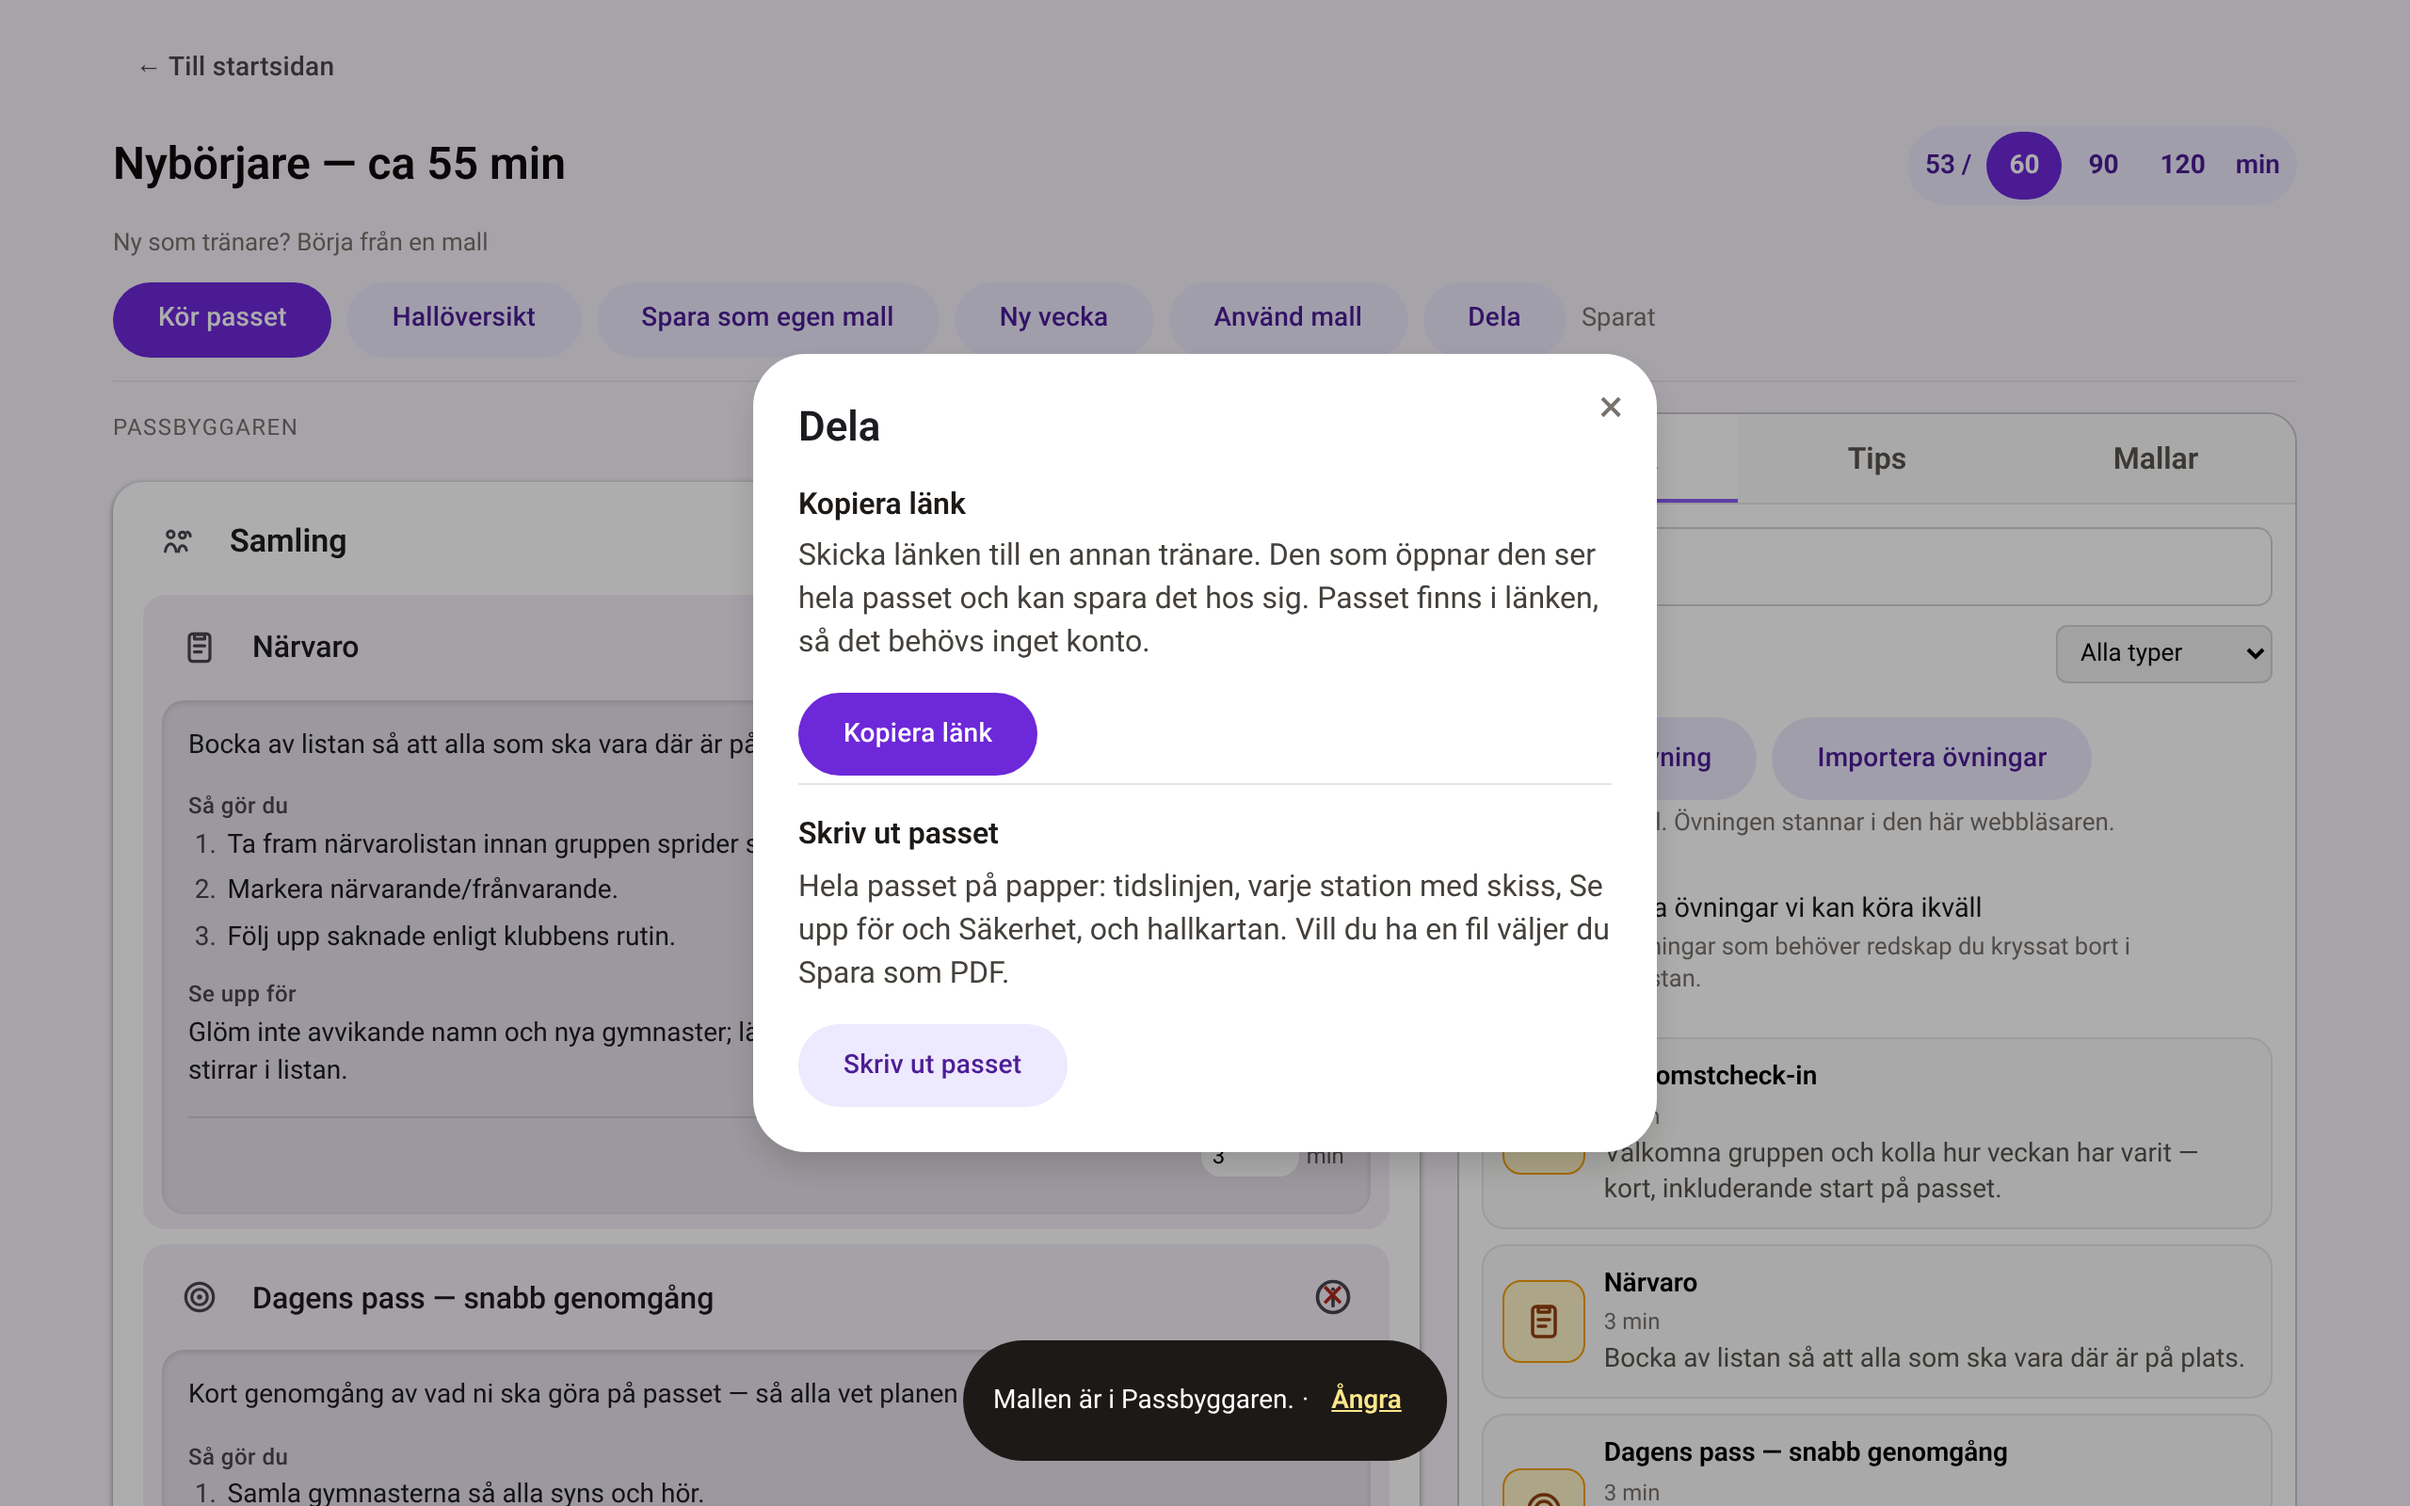
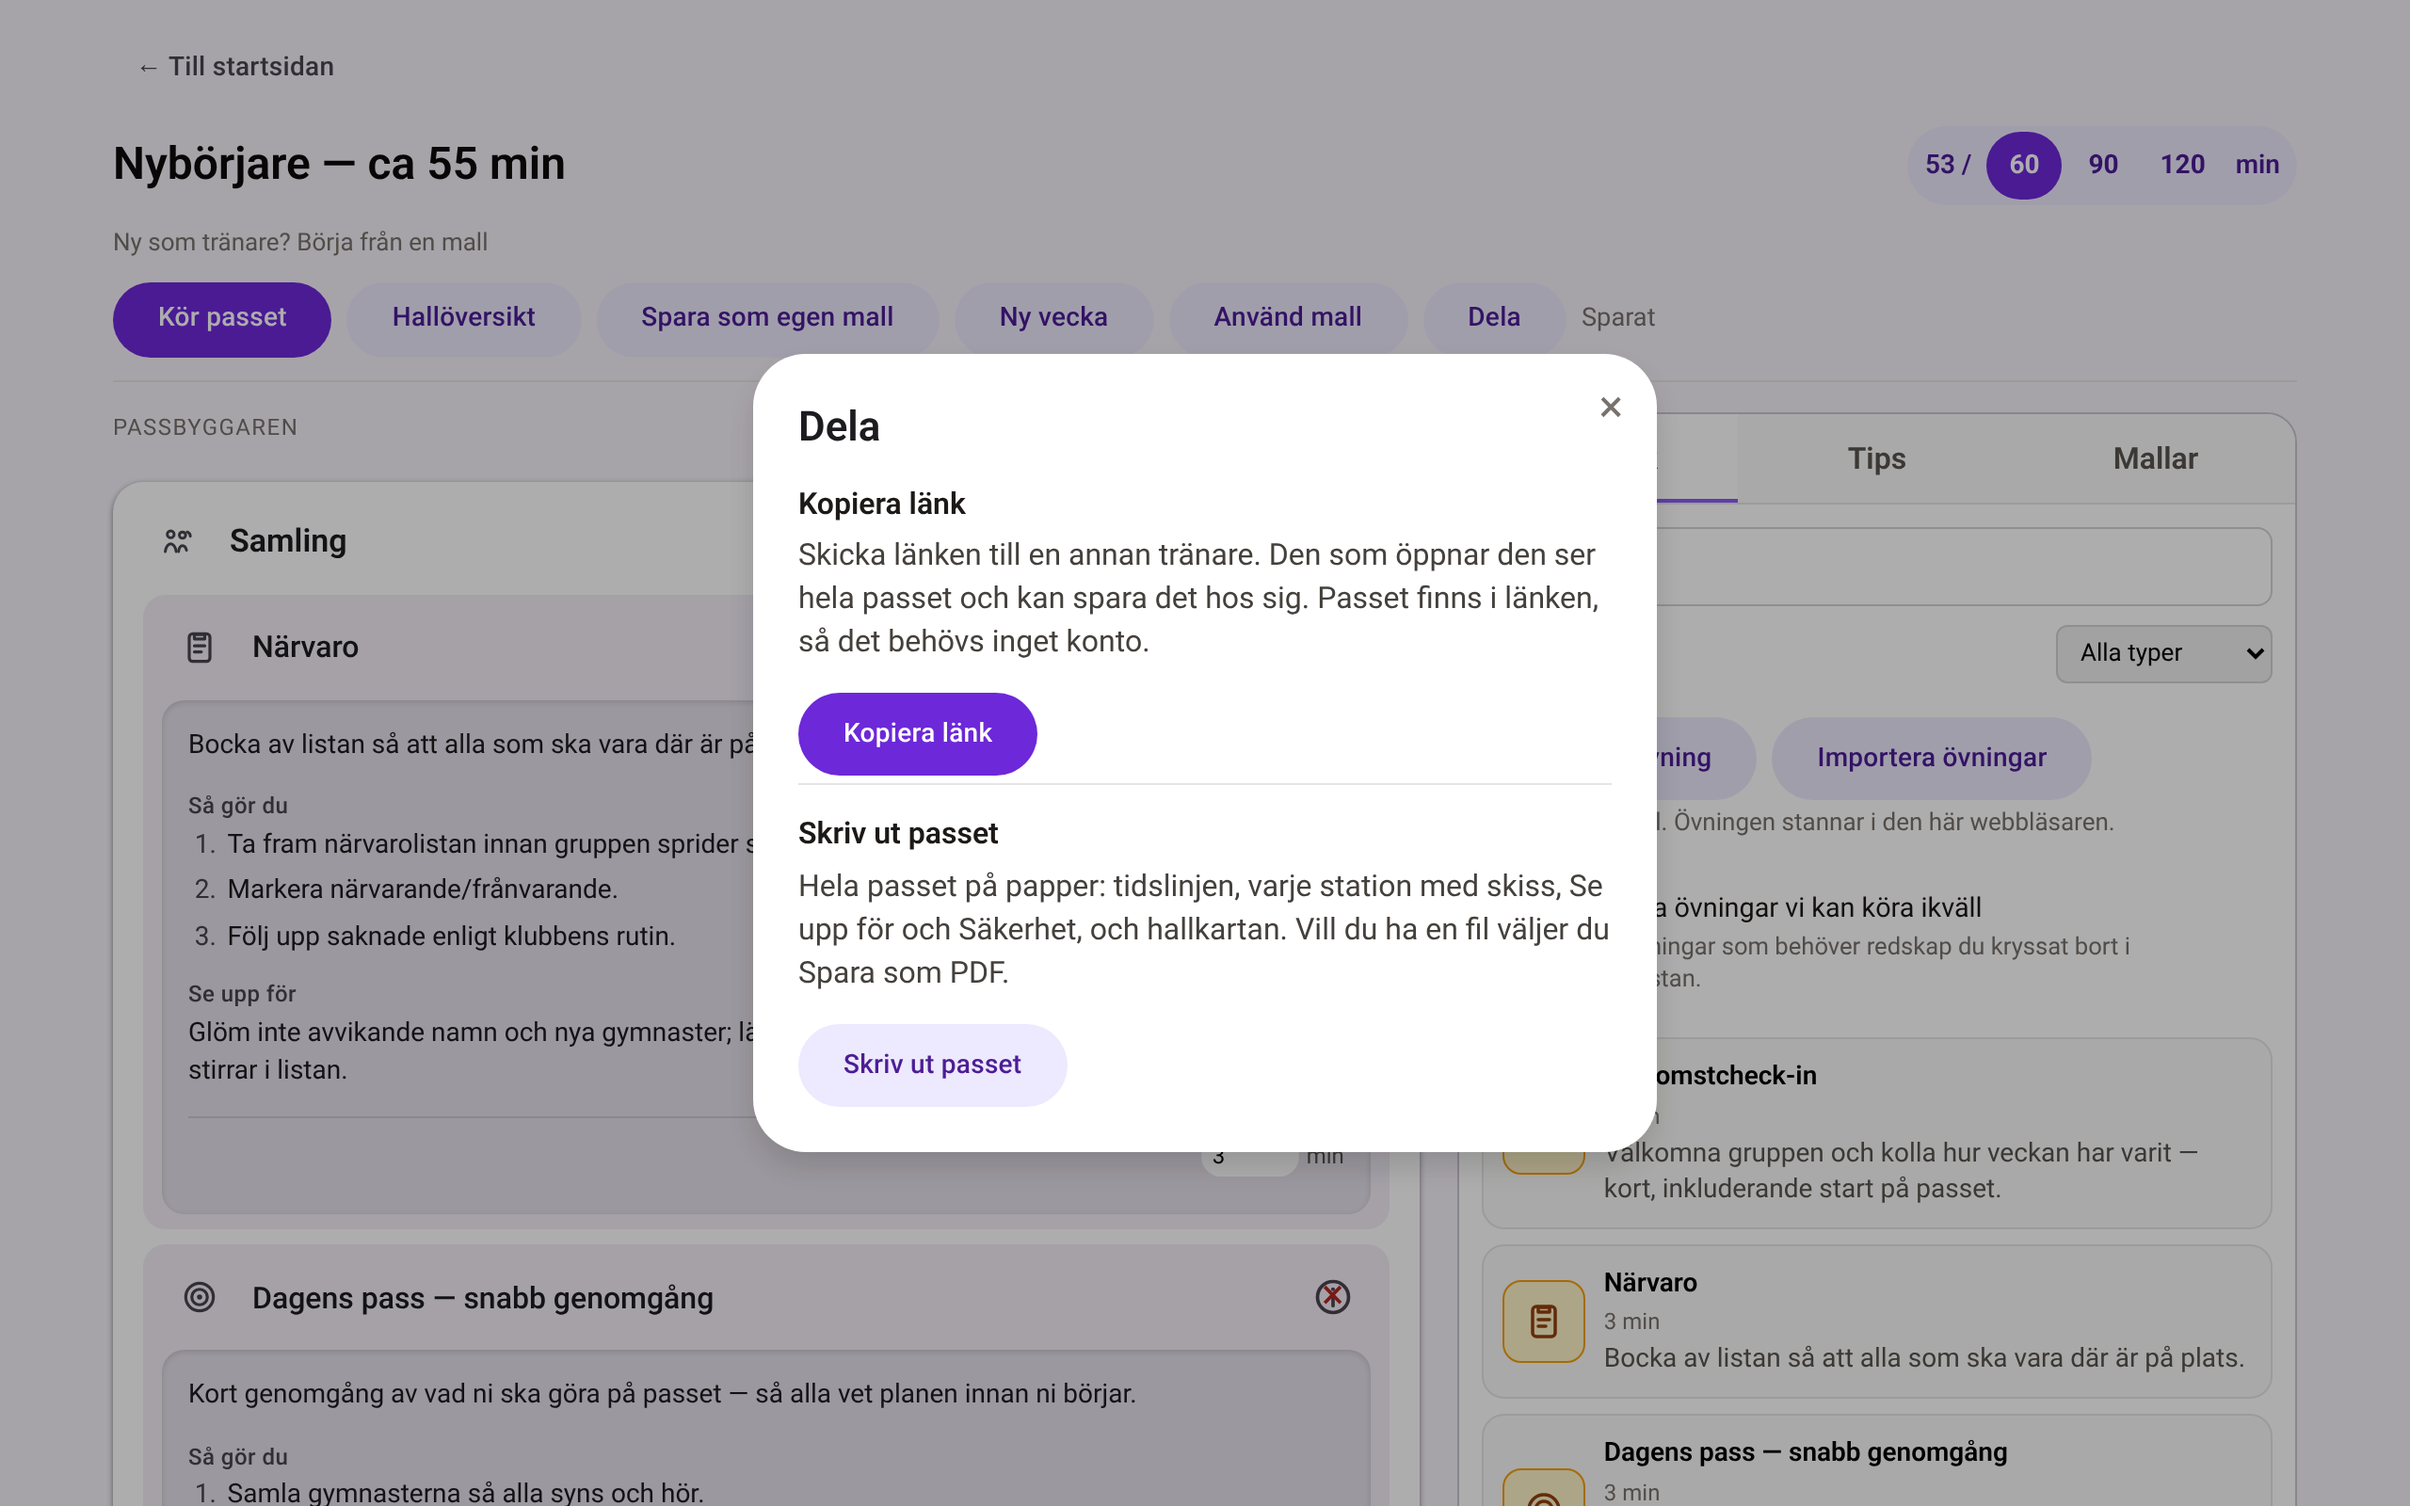
Slice 45 follow-up: opening Dela dismisses the toast (undo expires like a timeout); smoke FU-toast

Changed region(s): [[0.375, 0.875, 0.625, 0.9688]]

diff --git a/app/src/components/SessionBuilder.tsx b/app/src/components/SessionBuilder.tsx
@@ -468,7 +468,15 @@ export function SessionBuilder({
           {UI.useTemplate}
         </button>
         {hasItems && (
-          <button type="button" className="btn-secondary" onClick={() => setShowExport(true)}>
+          <button
+            type="button"
+            className="btn-secondary"
+            onClick={() => {
+              // Slice 45 follow-up: the Dela bottom sheet would sit under the toast; end it like a timeout (expires undo).
+              closeToast()
+              setShowExport(true)
+            }}
+          >
             {UI.export}
           </button>
         )}

diff --git a/app/SLICE45-SHIPPED.md b/app/SLICE45-SHIPPED.md
@@ -84,3 +84,10 @@ Soft limit +512 B: met (shrink, within the pack's −1.2 to −1.8 kB estimate).
 - `coachTips.hallHintsCompact` stays in the stored tips shape: it is still read by normalise/reset, and removing it would change the format.
 - **Observation for Planner:** after Använd mall, the Slice 41 toast «Mallen är i Passbyggaren. · Ångra» (about 5 s) now covers the «Skriv ut passet» button if Dela is opened right away, because the sheet is bottom-anchored. Screenshot: `slice45_15_dela_compact.png`. Not changed (out of scope).
 - No SQL, no Supabase change, ids stable. `tools/bank/out/*` not touched.
+
+## Follow-up (PR #49 review)
+- **AC5 ruling (Planner):** «no lower than main» accepted. Canvas top is 340 on both main and the branch when the saknar banner shows.
+- **Toast over Dela fixed:** opening Dela (Passbyggaren action, also reached through Mer) now calls `closeToast()` before showing the sheet, which is the same path the 5 s timer takes. An Ångra toast therefore expires its undo snapshot (`pendingUndo = null`) exactly like a timeout, and Ångra is not reachable behind the sheet or after closing it. One-level undo, the timer and the focus pause are unchanged. A plain toast is also dismissed, because it would cover the sheet the same way. One `onClick` in `SessionBuilder.tsx`. No unit test: the toast and undo state live inside the SessionBuilder component (module-level `pendingUndo`), and there is no component-test harness for it. Covered by smoke step `FU-toast`.
+- **Smoke step FU-toast (390×844):** Använd mall, then Mer → Dela with a real tap right away. The toast is gone, «Skriv ut passet» takes a real (non-forced) click and prints, and after × no Ångra comes back. Screenshot `slice45_25_dela_after_mall_no_toast.png`. Full smoke: **41/41 PASS**.
+- **Bundle after the fix:** total 212,145 B gz vs main 213,631 = **−1,486 B**. Versus cd19319 it is **+7 B** (index.js +5, a lazy chunk +2; CSS 0).
+- Old-hall Mina mall duplicate detection: accepted as is (Planner).
